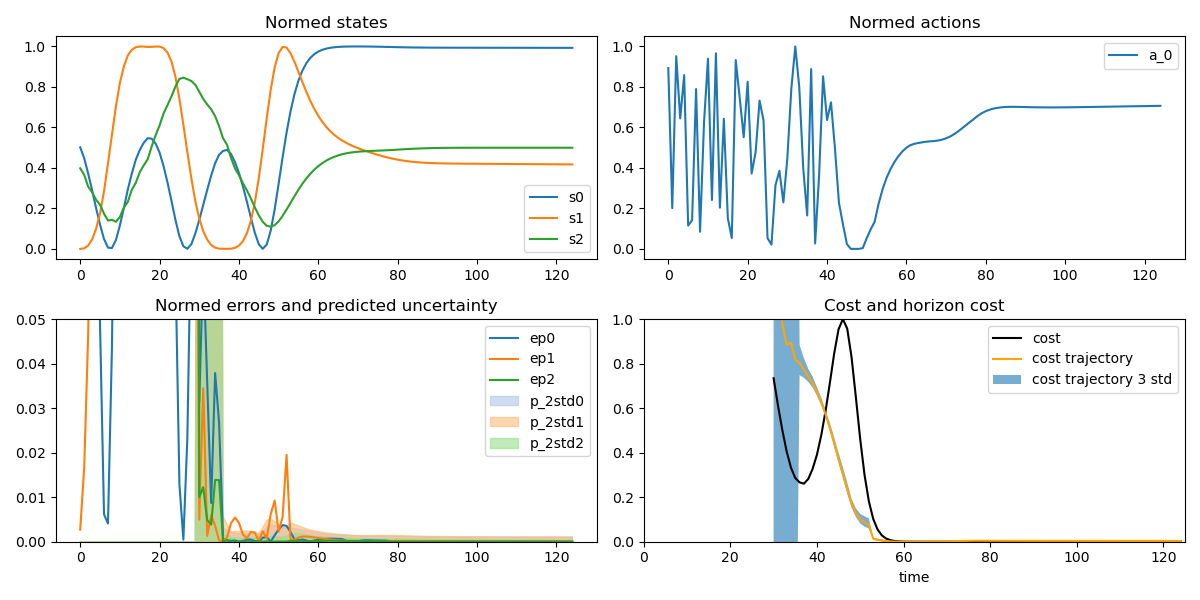
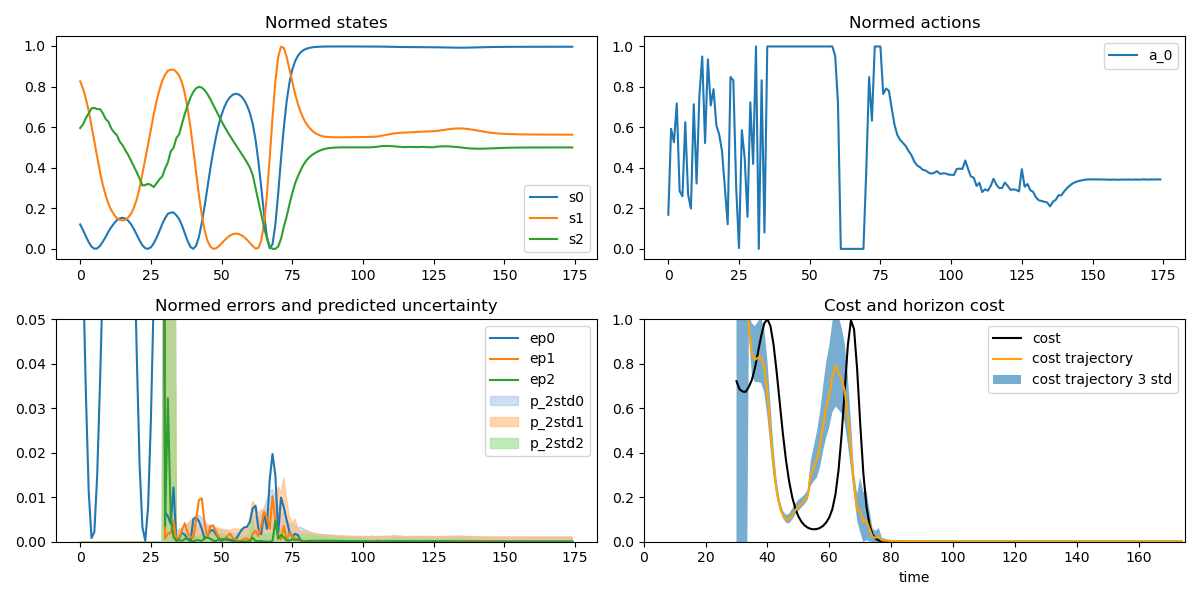
Added gif + limit number of iterations + better action optimizer

diff --git a/main.py b/main.py
@@ -55,7 +55,7 @@ def main():
 		control_object.add_point_memory(observation, action, new_observation, reward)
 		observation = new_observation
 
-	while True:
+	for index_iter in range(params_general['num_steps_env'] - params_init['num_random_actions_init']):
 		time_start = time.time()
 
 		action, add_info_dict = control_object.compute_prediction_action(observation, s_observation)
@@ -91,6 +91,8 @@ def main():
 			control_object.render_plot_model3d()
 
 		print("time loop: " + str(time.time() - time_start) + " s\n")
+
+	rec.close()
 
 
 if __name__ == '__main__':
